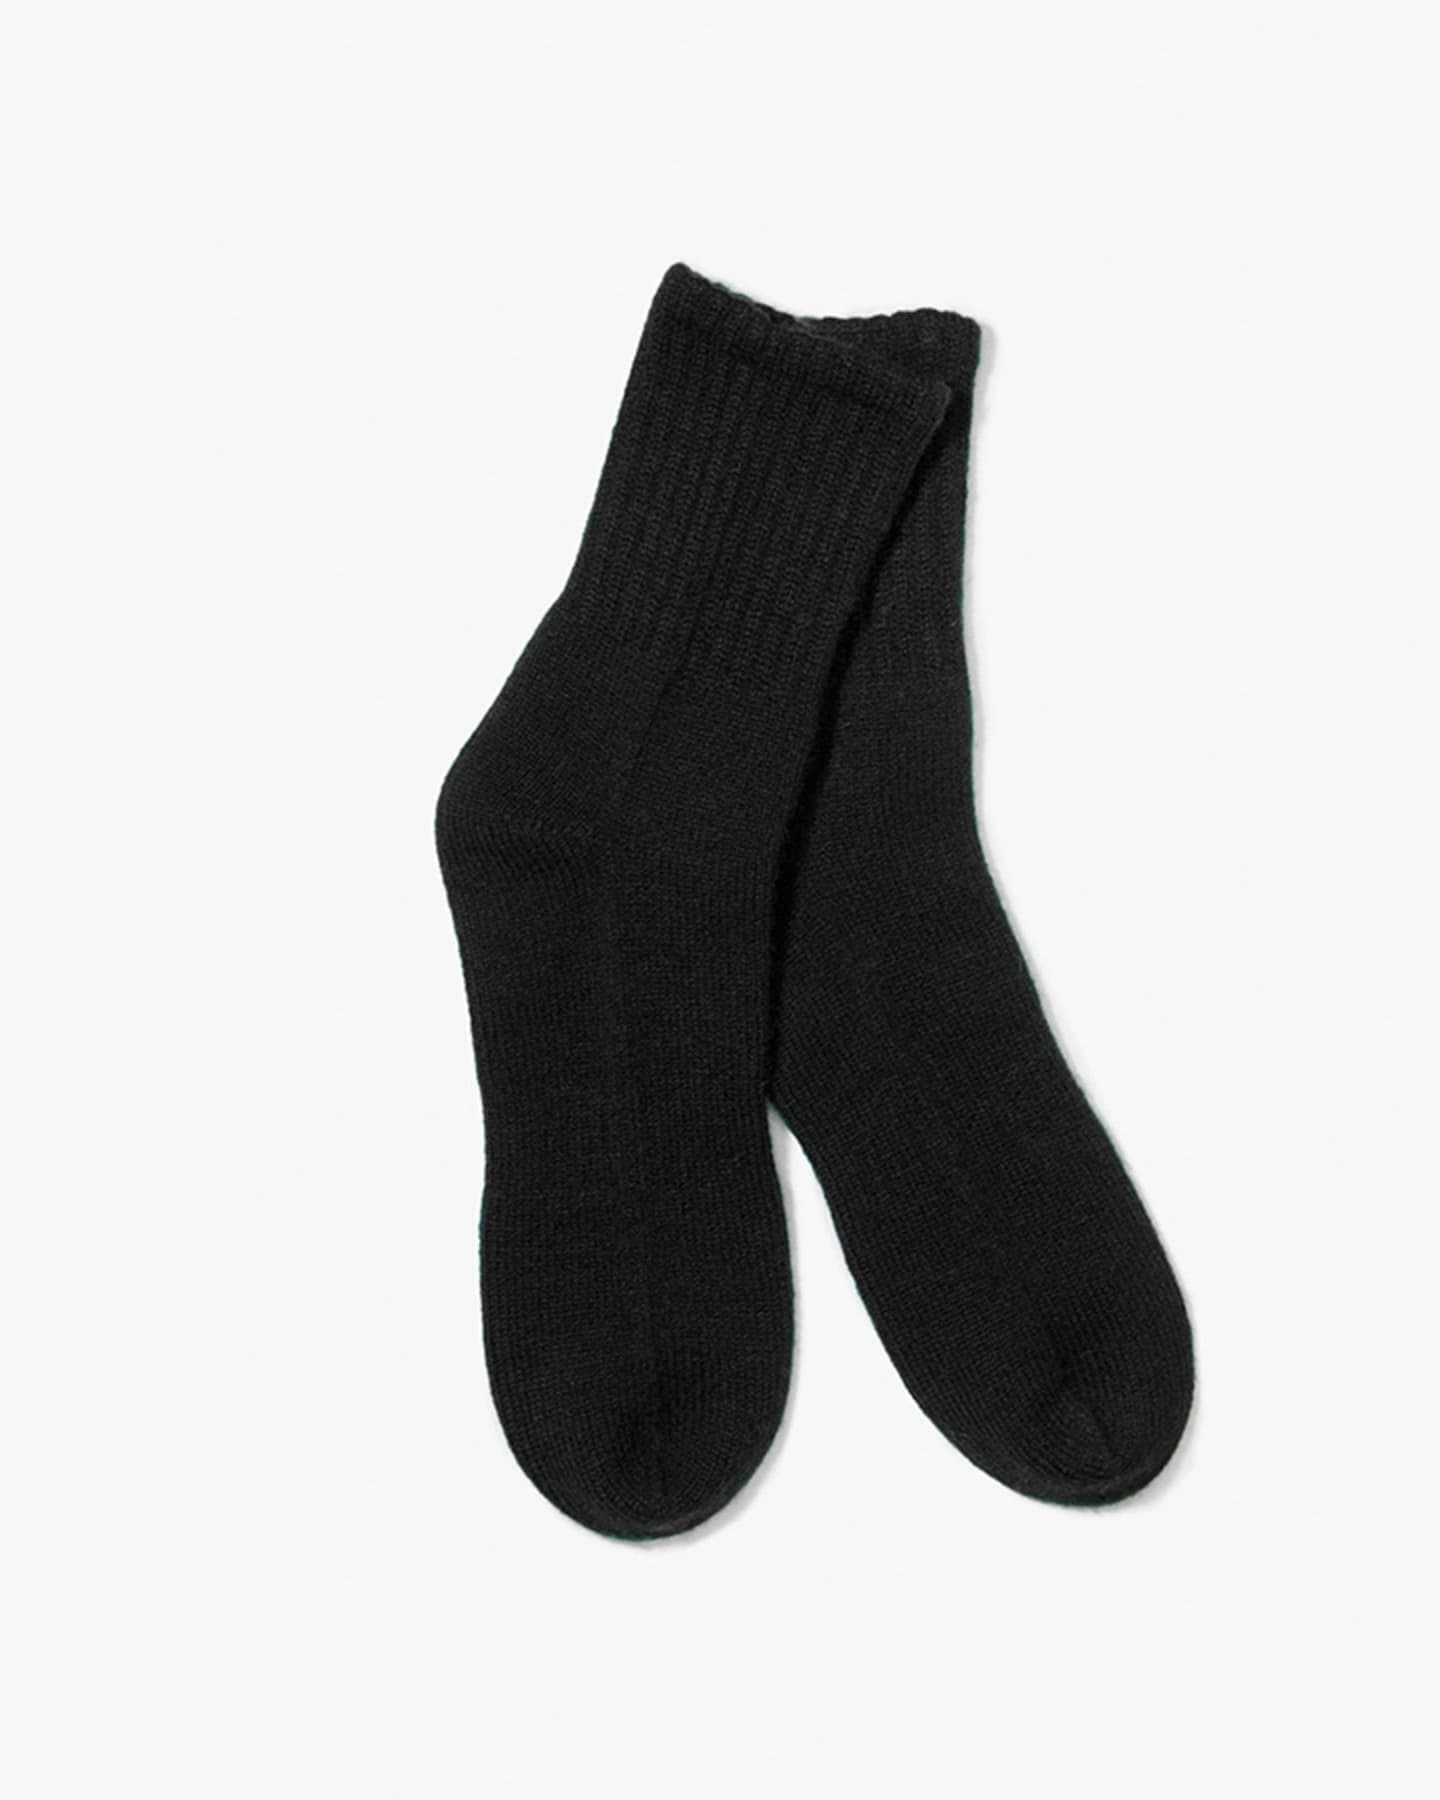
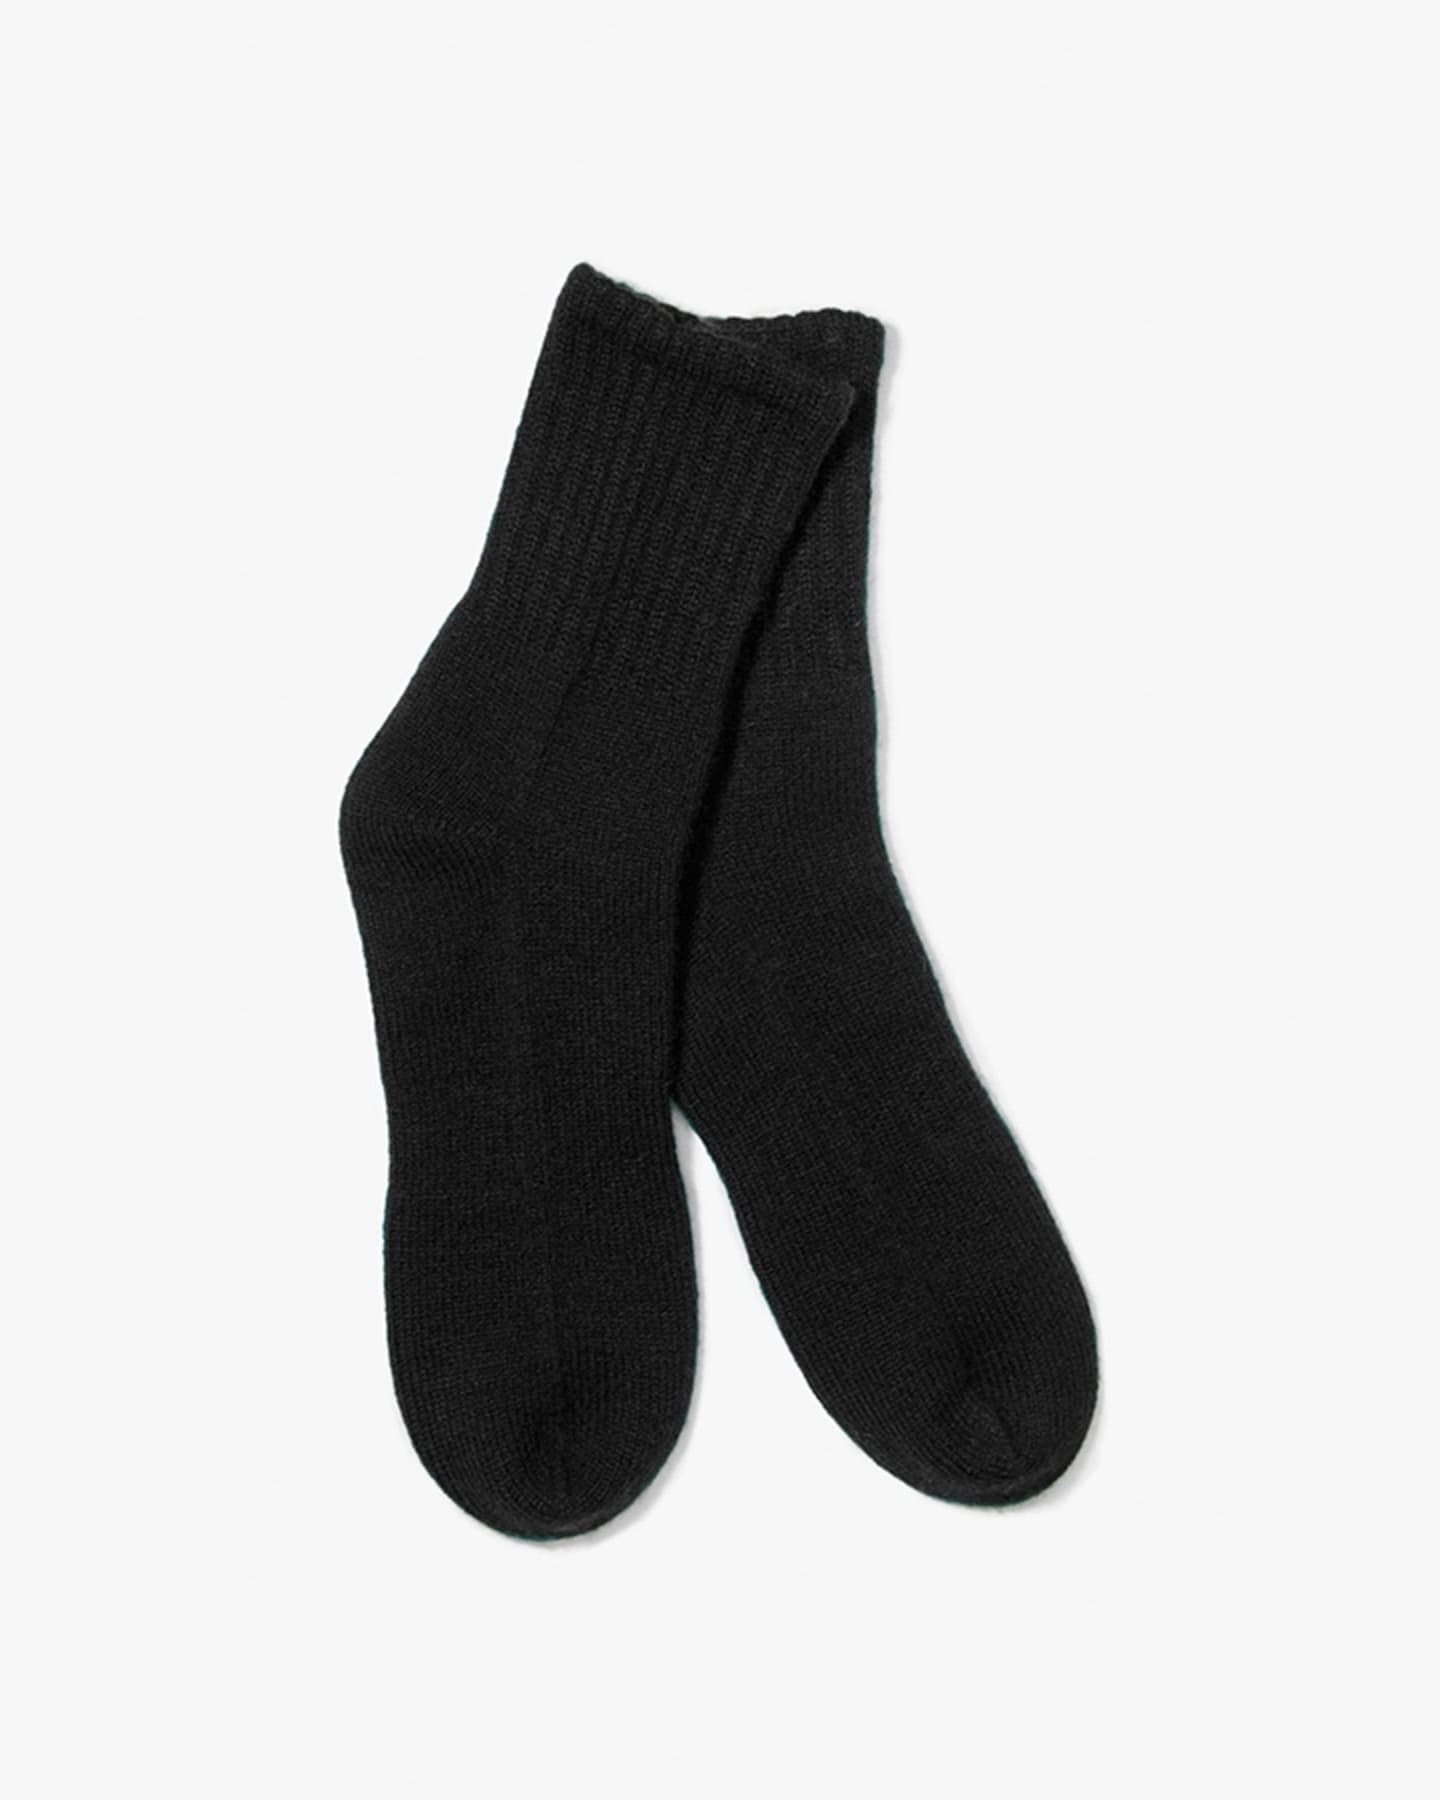
fix: some minor updates

Changed region(s): [[0.2188, 0.1244, 0.8438, 0.8711], [0.4688, 0.4356, 0.5, 0.4978], [0.5, 0.3422, 0.5312, 0.3733]]

diff --git a/style.css b/style.css
@@ -1,49 +1,58 @@
-body {
-	background: rgb(247, 247, 247);
+body { 
+  background: rgb(247, 247, 247);
 }
 
-img {
-	max-width: 500px;
-	max-height: 500px;
-	margin-bottom: 20px;
+img { 
+  max-width: 540px;
+  max-height: 540px;
 }
 
-a {
-	margin-left: 10px;
+a { 
+  margin-left: 10px;
 }
 
-ul {
-	margin-top: 10px;
+ul { 
+  margin-top: 10px;
 }
 
-button {
-	margin: 5px;
+button { margin: 5px; 
 }
 
-.product-image {
-	border: #fff solid 5px;
+.container > img { 
+  margin-bottom: 20px;
 }
 
-.cart {
-	height: 40px;
-    margin-right: 25px;
-    margin-top: 5px;
-    float: right;
-    border: 1px solid #d8d8d8;
-    padding: 5px 20px;
-    border-radius: 5px;
-    background: rgb(255, 255, 255);
-  }
+.container {
+  
+}
 
-  .select-color {
-  	cursor: pointer;
-  }
+.product-image { 
+  display: flex;
+  overflow: hidden;
+  border: #fff solid 5px;
+  justify-content: center;
+  align-items: center;
+}
 
-  .color-box {
-  	margin-left: 5px;
-  	display: inline-block;
-  	width: 50px;
-  	height: 50px;
-  	border-radius: 50%;
-  	border: 4px solid #ffffff;
-  }
+.cart { float: right;
+  height: 40px;
+  margin-top: 5px;
+  margin-right: 25px;
+  padding: 5px 20px;
+  border: 1px solid #d8d8d8;
+  border-radius: 5px;
+  background: rgb(255, 255, 255);
+}
+
+.select-color { 
+  cursor: pointer;
+}
+
+.color-box { 
+  display: inline-block;
+  width: 50px;
+  height: 50px;
+  margin-left: 5px;
+  border: 4px solid #fff;
+  border-radius: 50%;
+}

diff --git a/main.js b/main.js
@@ -8,11 +8,11 @@ Vue.component('product', {
 	template: `
 		<div class="product row">
 
-        	<div class="product-image col-md-6">
+        	<div class="product-image col-lg-6">
         		<img :src="image" :title="description" :alt="description">
         	</div>
 
-        	<div class="product-info col-md-6">
+        	<div class="product-info col-lg-6">
         		<h2>{{product}}</h2>
         		<p>Shipping: {{shipping}}</p>
         		<p>inStock: ({{inStock}})</p>
@@ -150,11 +150,11 @@ Vue.component('warm', {
 	template:`
 		<div class="product row">
 
-        	<div class="product-image col-md-6">
+        	<div class="product-image col-lg-6">
         		<img :src="image" :title="description" :alt="description">
         	</div>
 
-        	<div class="product-info col-md-6">
+        	<div class="product-info col-lg-6">
         		<h2>{{product}}</h2>
         		<p>Shipping: {{shipping}}</p>
         		<p>inStock: ({{inStock}})</p>
@@ -274,11 +274,11 @@ Vue.component('product2', {
 	template: `
 		<div class="product row">
 
-        	<div class="product-image col-md-6">
+        	<div class="product-image col-lg-6">
         		<img :src="image" :title="description" :alt="description">
         	</div>
 
-        	<div class="product-info col-md-6">
+        	<div class="product-info col-lg-6">
         		<h2>{{product}}</h2>
         		<p>Shipping: {{shipping}}</p>
         		<p>inStock: ({{inStock}})</p>

diff --git a/index.html b/index.html
@@ -3,24 +3,20 @@
    <head>
       <meta name="viewport" content="width=device-width, initial-scale=1">
       <title>Product App</title>
-      <link rel="stylesheet" href="https://stackpath.bootstrapcdn.com/bootstrap/4.5.2/css/bootstrap.min.css" integrity="sha384-JcKb8q3iqJ61gNV9KGb8thSsNjpSL0n8PARn9HuZOnIxN0hoP+VmmDGMN5t9UJ0Z" crossorigin="anonymous">
+      <link rel="stylesheet" href="https://stackpath.bootstrapcdn.com/bootstrap/4.5.2/css/bootstrap.min.css" crossorigin="anonymous">
       <link rel="stylesheet" href="style.css">
       <script src="https://unpkg.com/vue"></script>
    </head>
    <body>
-    
       <div id="app" class="container">
          <h1>{{title}}</h1>
-         <!--<p>{{ product.split('').reverse().join('') }}</p> -->
          <p>{{description}}</p>
-         <img v-bind:src="logo" alt=""> <!-- v-bind: привязка данных к атрибутам-->
+         <img v-bind:src="logo" alt="">
          <a :href="link">{{more}}</a>
-
          <product :premium="premium"></product>
          <warm></warm>
          <product2></product2>
          <warm></warm>
-
       </div>
       <script src="main.js"></script>
    </body>

diff --git a/README.md b/README.md
@@ -1,6 +1,5 @@
 # socks
-
-##### Usually vue.js starts with ToDo or Socks. 
-##### I decided that my "socks" should be like this. 
-##### So I support the Belarusian product.
+As a rule vue.js starts with ToDo or Socks. 
+I decided that my "socks" should be like this. 
+So I support the Belarusian product. ))
 
